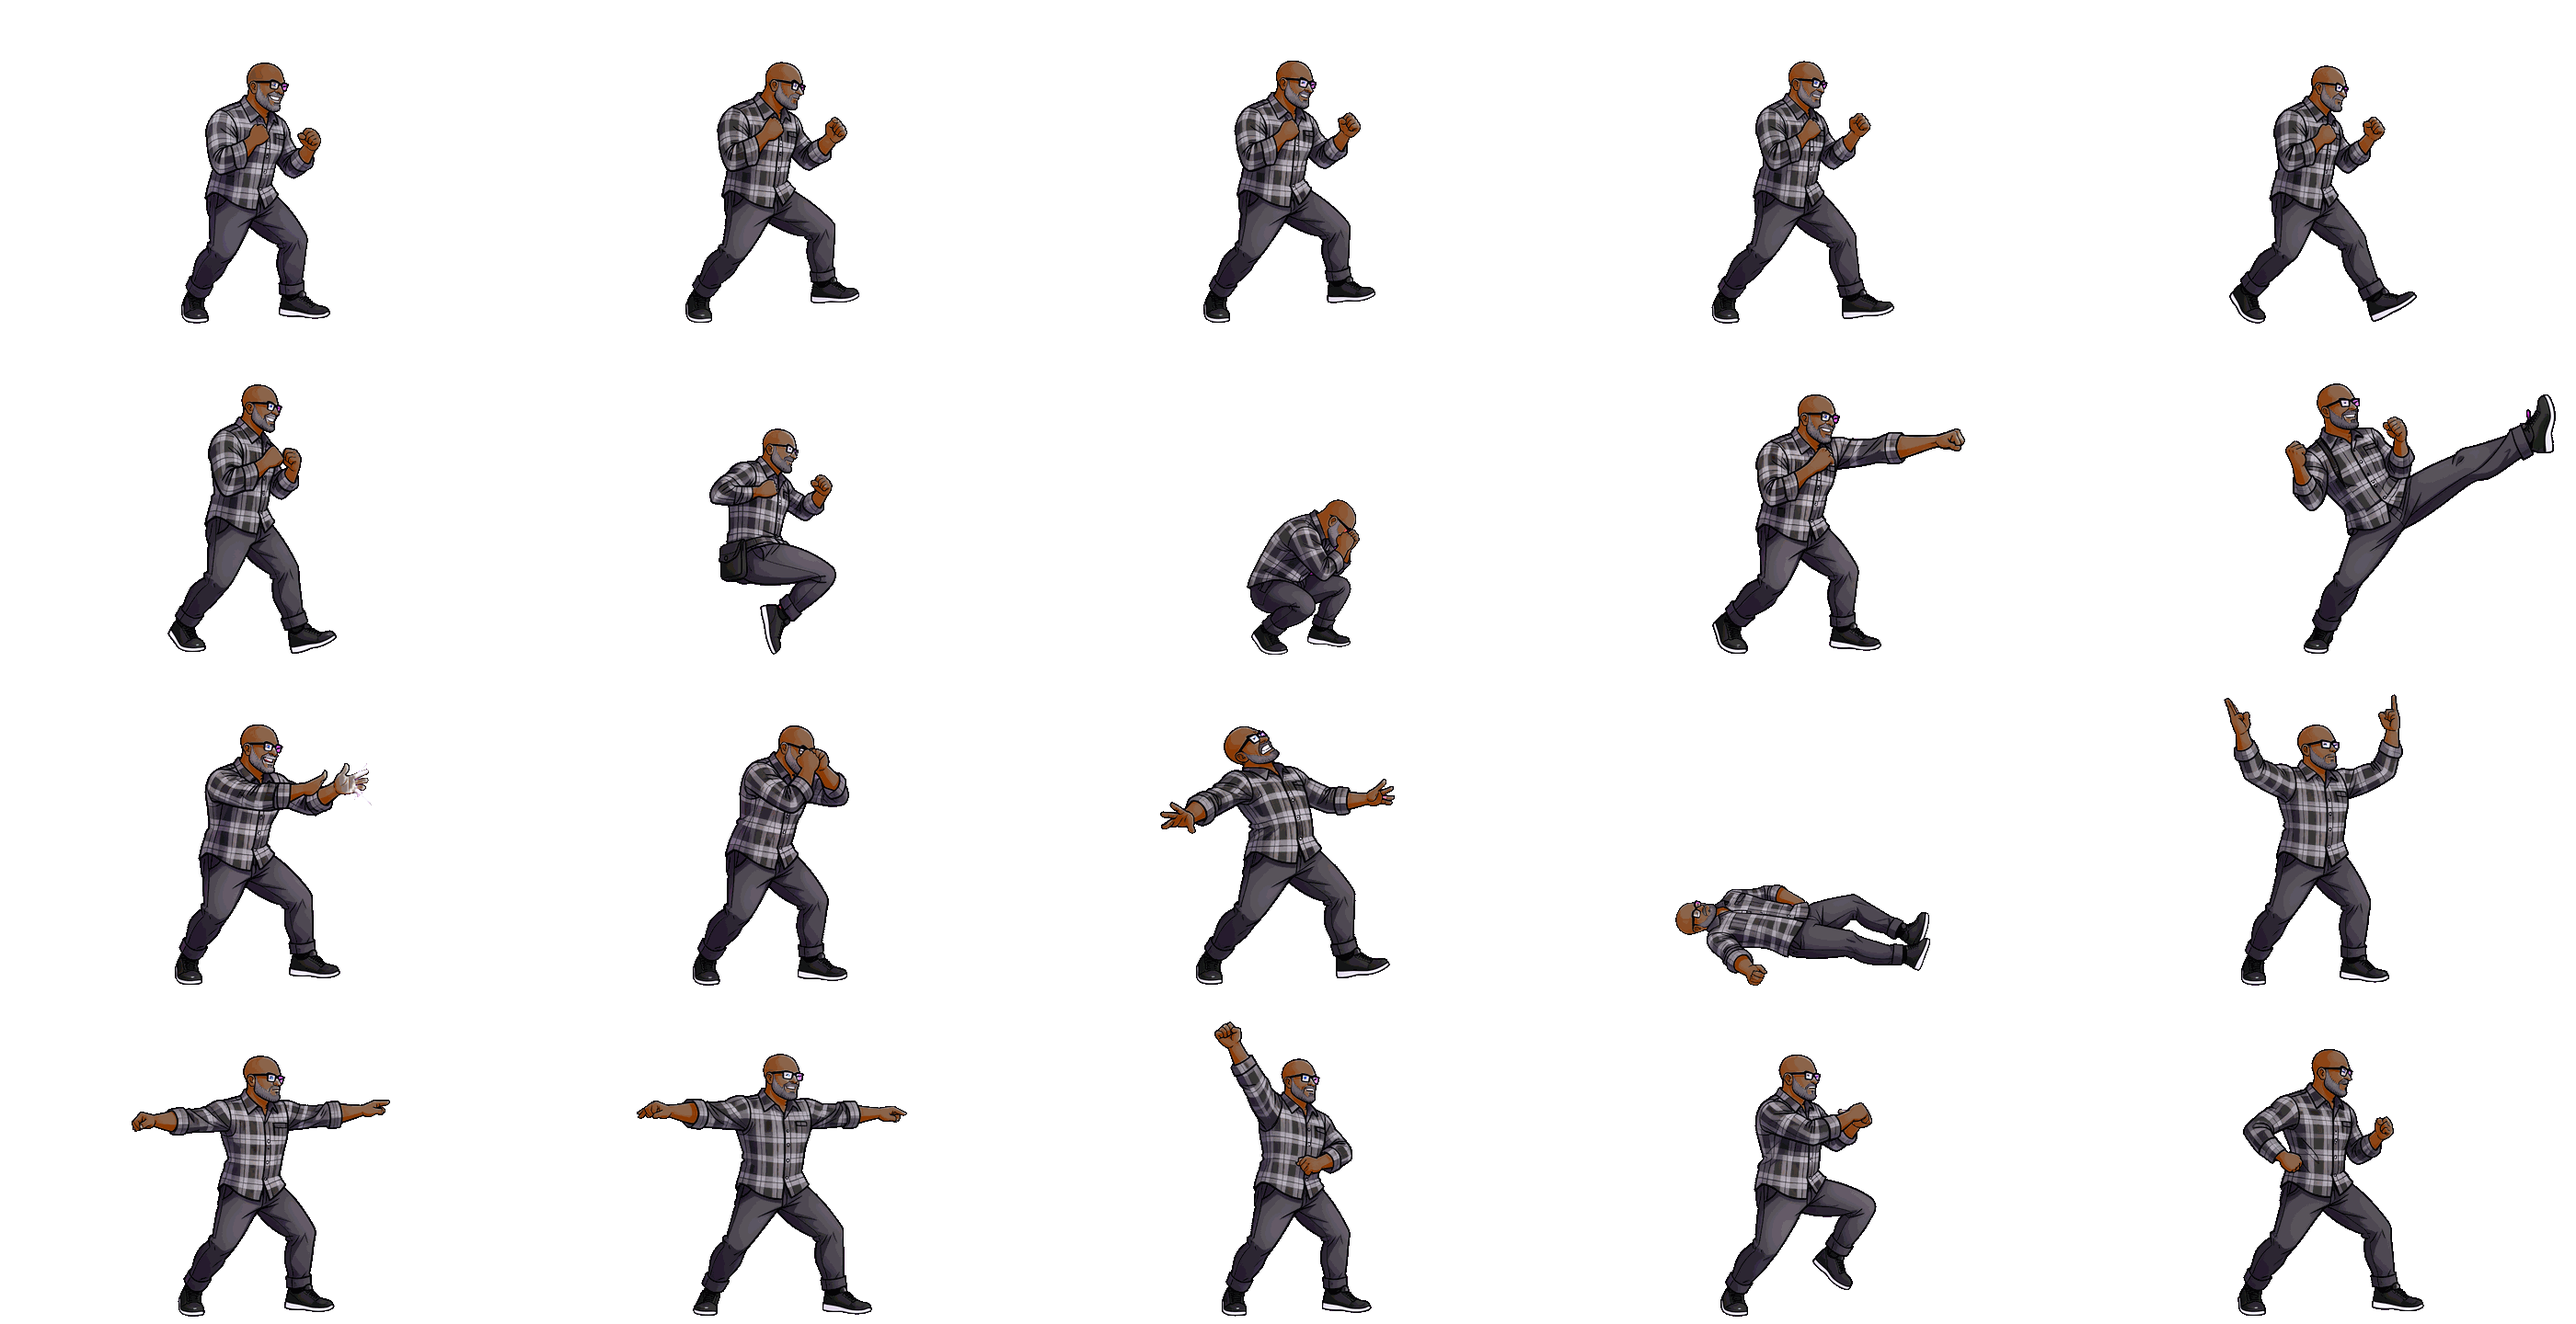
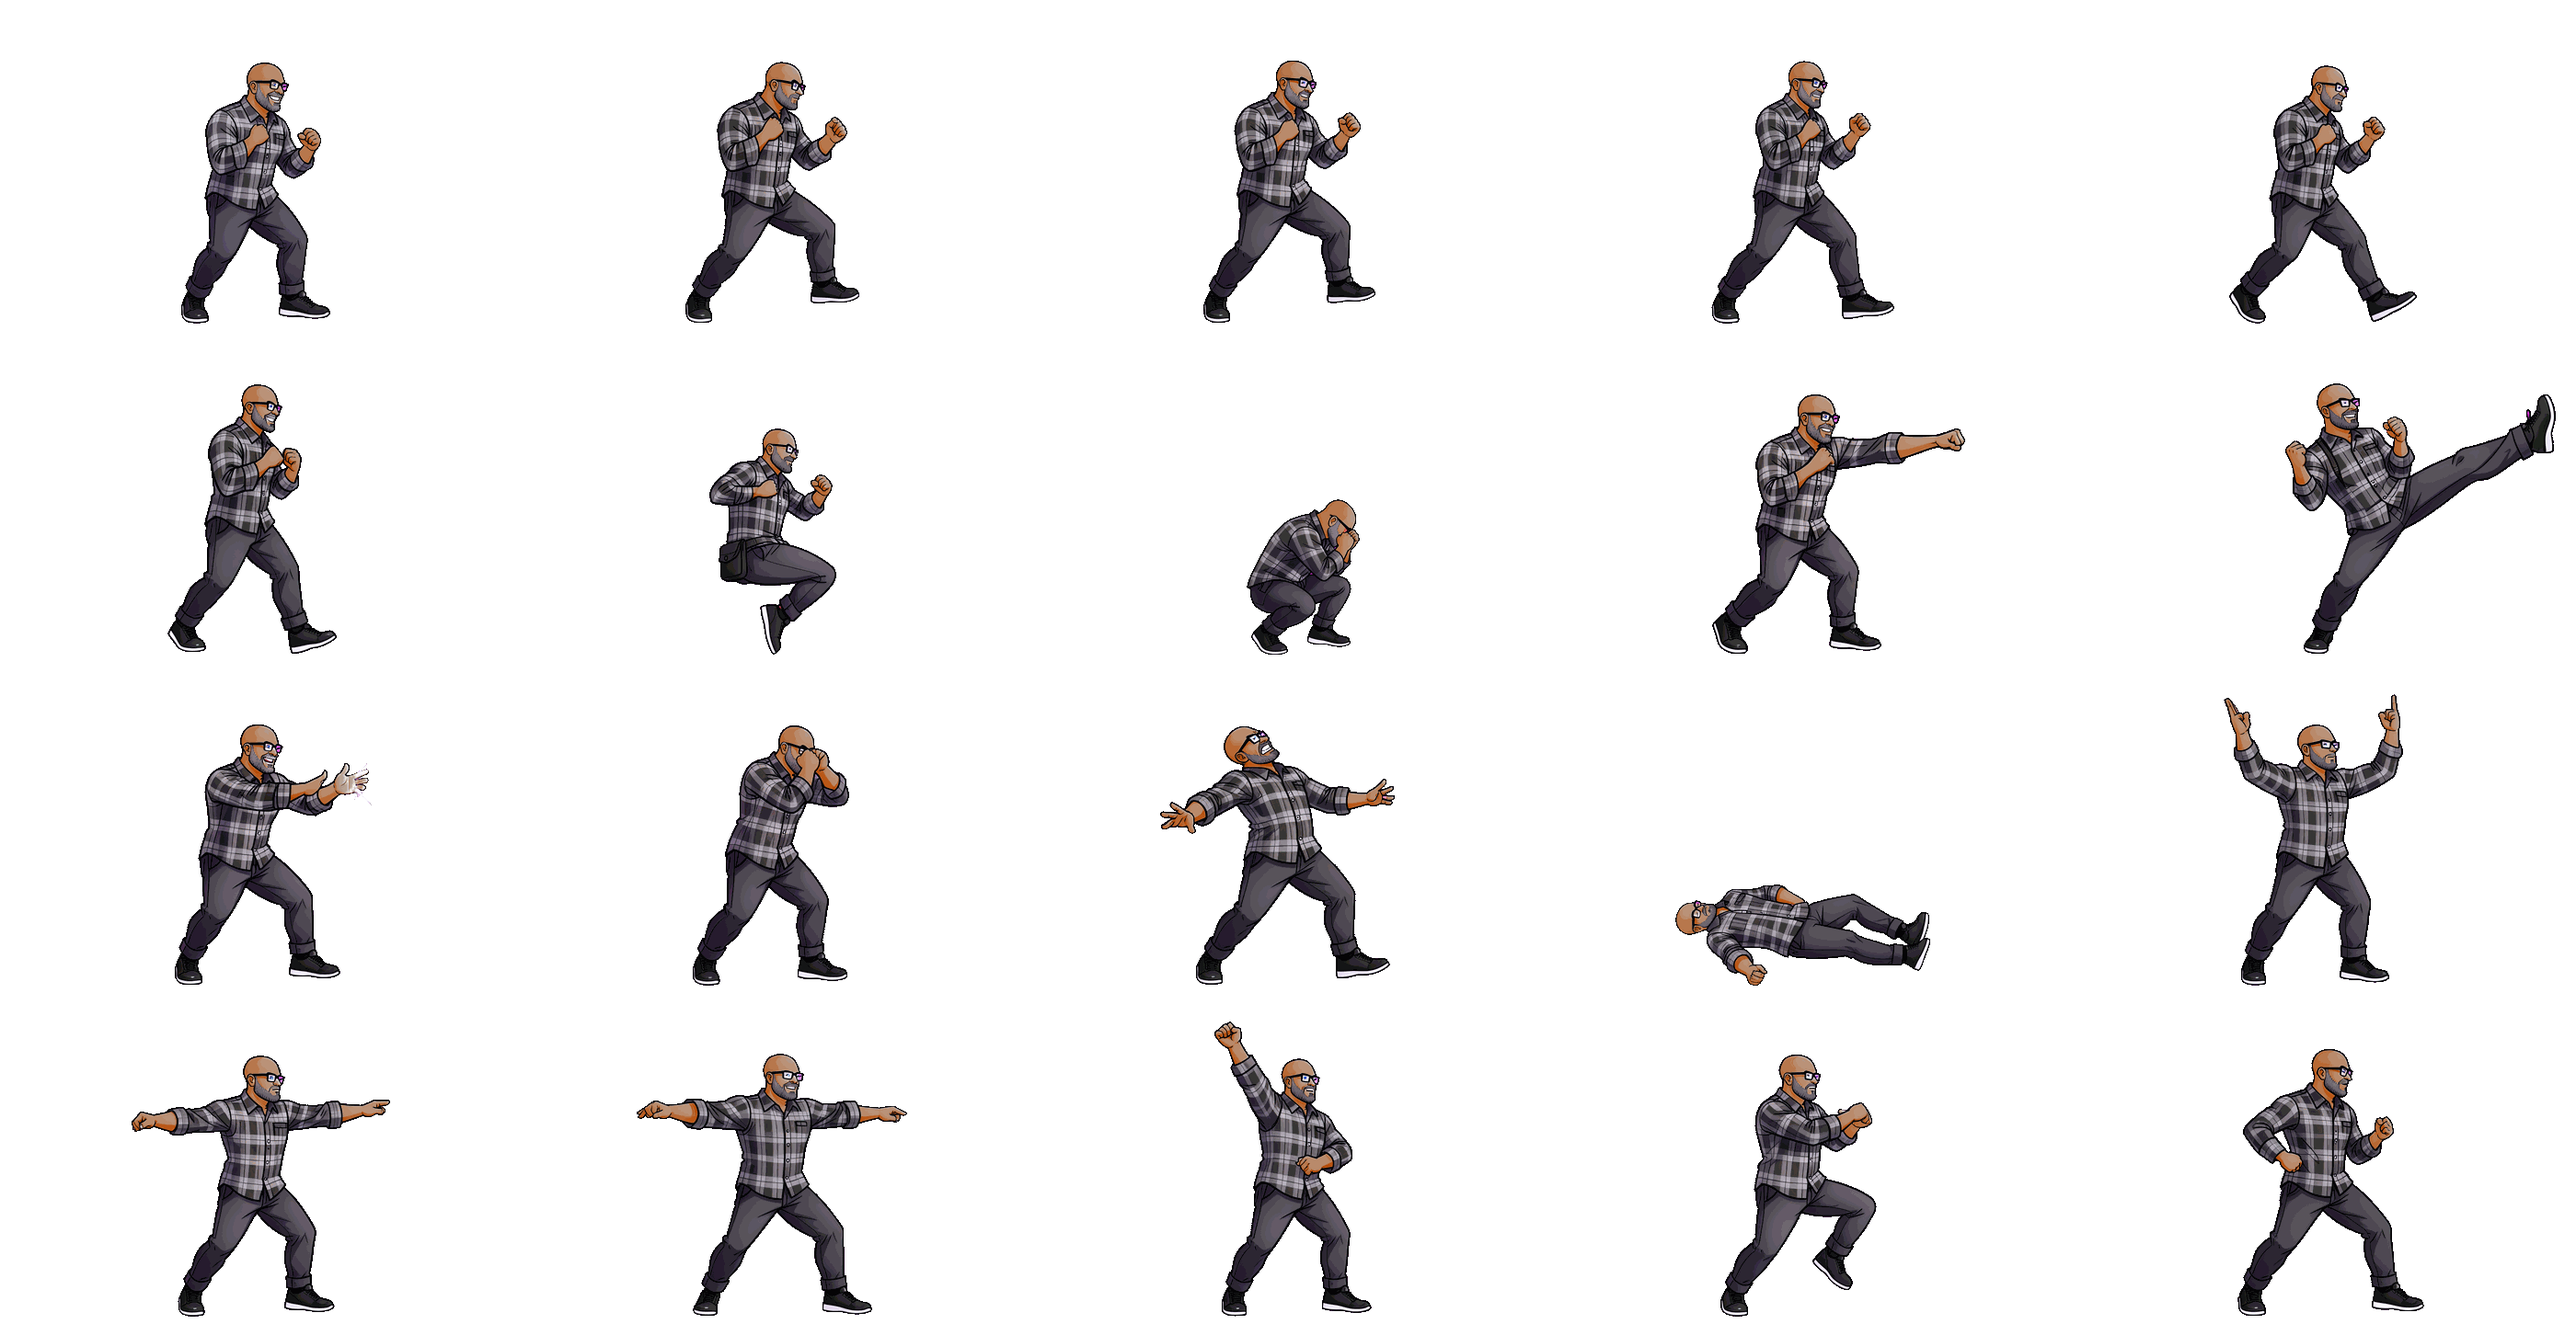
Lighten Erick's skin tone to a medium brown

diff --git a/.claude/skills/add-friend/SKILL.md b/.claude/skills/add-friend/SKILL.md
@@ -24,7 +24,7 @@ Everything runs locally; nothing is sent to Higgsfield or any paid service. Take
    Dance styles live in `DANCES` in `tools/new_fighter.py` (robot, disco, floss). **Pick one no fighter uses yet** (Jose/Rachel/Diego use shuffle/point/flex, Erick robot); add a new style of 6 prompts there if all are taken.
    Existing files are kept, so to redo one frame delete `art-src/poses/<id>_<name>.png`, rerun with a different `--seed`.
 4. Register in `js/config.js`: add the id to `ROSTER` and an entry in `FIGHTERS` (`name`, a unique `color` + light `glow`, `height` relative to Diego = 1; ask Diego if unknown). `sprites.py` reads the roster from there.
-5. Skin tone (only if the friend's skin is darker than the template's light skin and the model drew it pale): recolour the existing frames instead of regenerating: `python3 tools/skin_tone.py <id> 0.55 --sat 1.75 --hue 12` (factor < 1 darkens, --hue sets a warm brown; these values = Erick's deep brown; without --hue a plain darken just looks like a shadow, 0.78 + sat 1.3 was too light for him; starts from `art-src/frames_orig/<id>`, so rerun freely). It must run AFTER every frame is keyed, and re-keying a frame (`sprites.py pose`) needs `rm -r art-src/frames_orig/<id>` first.
+5. Skin tone (only if the friend's skin is darker than the template's light skin and the model drew it pale): recolour the existing frames instead of regenerating: `python3 tools/skin_tone.py <id> 0.74 --sat 1.4 --hue 12` (factor < 1 darkens, --hue sets a warm brown; these values = Erick's medium brown (0.55 + sat 1.75 and 0.67 + sat 1.5 were too dark); without --hue a plain darken just looks like a shadow, 0.78 + sat 1.3 was too light for him; starts from `art-src/frames_orig/<id>`, so rerun freely). It must run AFTER every frame is keyed, and re-keying a frame (`sprites.py pose`) needs `rm -r art-src/frames_orig/<id>` first.
 6. Atlas + portrait + icon: `python3 tools/sprites.py atlas`.
 7. Contact-sheet check: paste the 20 `art-src/frames/<id>/*.png` onto a dark tile and look at it (stray magenta, cut-off limbs, wrong face). Regenerate bad frames (step 3 note) and re-run `sprites.py pose <id> <name> <png>` + `atlas`.
 8. Update the tests for the new roster size: the ladder e2e (`e2e/desktop-ladder.spec.js`, stage count and shadow stage index), the phone select tap offset (`e2e/phone.spec.js`), README "starring N friends". `scripts/check`, `npx playwright test`, then look at the select, title, vs and ending screenshots in `e2e/screenshots/`.
